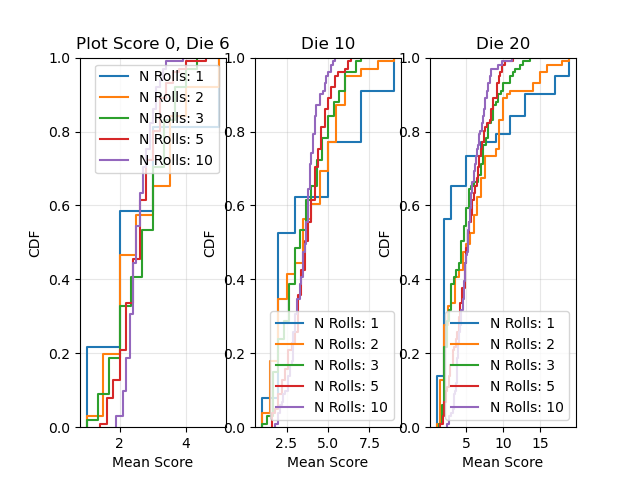
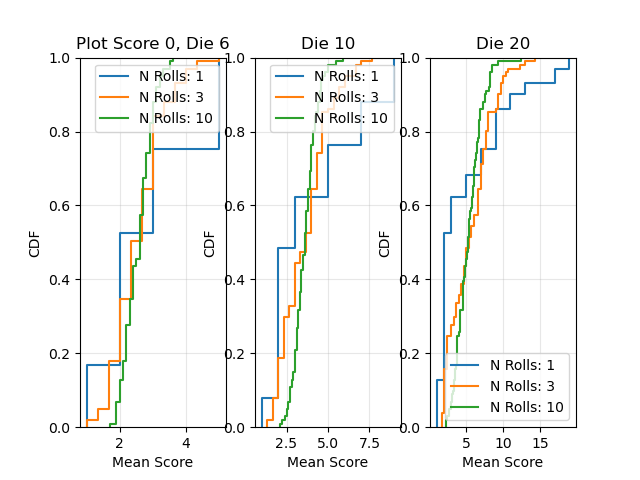
Adding in simulation for game
Currently only has cost for die, Looks reasonably balanced. I would like to increase the cost for the higher dice, but that would be too much of a deterrent. 
Next step is to add bonuses. And then look at shaping scoring points.

diff --git a/DiceGameSim.py b/DiceGameSim.py
@@ -1,0 +1,79 @@
+import numpy as np
+import matplotlib.pyplot as plt
+
+ScoringList = []
+ScoringList.append(np.array(
+    [ 1,  2,  3,  2,  5,   # 1 to 5  # remember to subtract one from the roll to get 0-based index.  
+      2,  7,  2,  9,  2,   # 6 to 10 # That's what I would have gotten from the dictionary.
+     11,  2, 13,  2,  3,   # 11 to 15
+      1, 17,  2, 19,  2])) # 15 to 20
+DieCostList = [0, 1, 3]
+
+nGames = 30 # keep this small enough to see individual games
+nTurns = 50
+nDieLimits = [6,10,20] # These will be the dies players have to choose from
+nPlayers = 3
+RngObj = np.random.default_rng() # random number generator
+
+GameEndScore = 50
+
+## 
+Scores = np.zeros(shape=(nTurns, nGames, nPlayers)) # initalize at starting value for players (NaN would cause issues)
+GameLength = np.empty(shape=(1, nGames, nPlayers)) # when the player first gets above winning score
+GameLength[:] = np.nan
+i_scoreList = 0; # placeholder for now
+tmpFig = []
+tmpFig_cdfEnd = []
+tmpAxes = []
+tmpAxes_cdfEnd = []
+tmpFig.append(plt.figure())
+tmpFig_cdfEnd.append(plt.figure())
+tmpAxes_cdfEnd.append(tmpFig_cdfEnd[0].add_subplot(1, 1, 1))
+tmpAxes_cdfEnd[0].set_title(f"CDF")
+tmpAxes_cdfEnd[0].set_xlabel("Length of Game")
+tmpAxes_cdfEnd[0].set_ylabel(".")
+tmpAxes_cdfEnd[0].grid(True, alpha=0.3)
+for i_player in range(0,nPlayers):
+    tmpAxes.append(tmpFig[i_scoreList].add_subplot(nPlayers, 1, i_player+1))
+    # if i_player == 0: # for single initializations
+    tmpAxes[i_player].set_title(f"Player {i_player}")
+    tmpAxes[i_player].set_xlabel("Turn")
+    tmpAxes[i_player].set_ylabel("Score")
+    tmpAxes[i_player].grid(True, alpha=0.3)
+    for i_game in range(0,nGames):
+        for i_turn in range(0,nTurns): # N.b. first turn will use initialized value at end of array
+            Scores[i_turn,i_game,i_player] = Scores[i_turn-1,i_game,i_player] # start with previous score
+            # this will loop around on first turn
+            if i_player == 0: 
+                i_die = 0
+            elif i_player == 1: 
+                if Scores[i_turn-1,i_game,i_player] >= DieCostList[1]:
+                    i_die = 1
+                else:
+                    i_die = 0
+            elif i_player == 2:
+                if Scores[i_turn-1,i_game,i_player] >= DieCostList[2]:
+                    i_die = 2
+                elif Scores[i_turn-1,i_game,i_player] >= DieCostList[1]:
+                    i_die = 1
+                else:
+                    i_die = 0
+            Scores[i_turn,i_game,i_player] = Scores[i_turn,i_game,i_player] - DieCostList[i_die]
+            tmpRoll = RngObj.integers(1,nDieLimits[i_die])
+            tmpScore = ScoringList[i_scoreList][tmpRoll-1] # -1 so a roll of [1] looks up the [0] index
+            Scores[i_turn,i_game,i_player] = tmpScore + Scores[i_turn,i_game,i_player]
+            if np.isnan(GameLength[0,i_game,i_player]) and (Scores[i_turn,i_game,i_player] >= GameEndScore):
+                GameLength[0,i_game,i_player] = i_turn+1 # Remember, 0-based indexing
+        # End of turns
+        tmpAxes[i_player].plot(Scores[:,i_game,i_player], label=f"End {GameLength[0,i_game,i_player]}")
+    # end of games
+    tmpAxes_cdfEnd[0].ecdf(GameLength[0,:,i_player], label=f"Player: {i_player}")
+    # tmpAxes[i_player].legend()
+tmpFig[0].savefig(f"GameScores.png")
+tmpAxes_cdfEnd[0].legend()
+tmpFig_cdfEnd[0].savefig(f"GameLengths.png")
+
+                
+            
+                
+    
